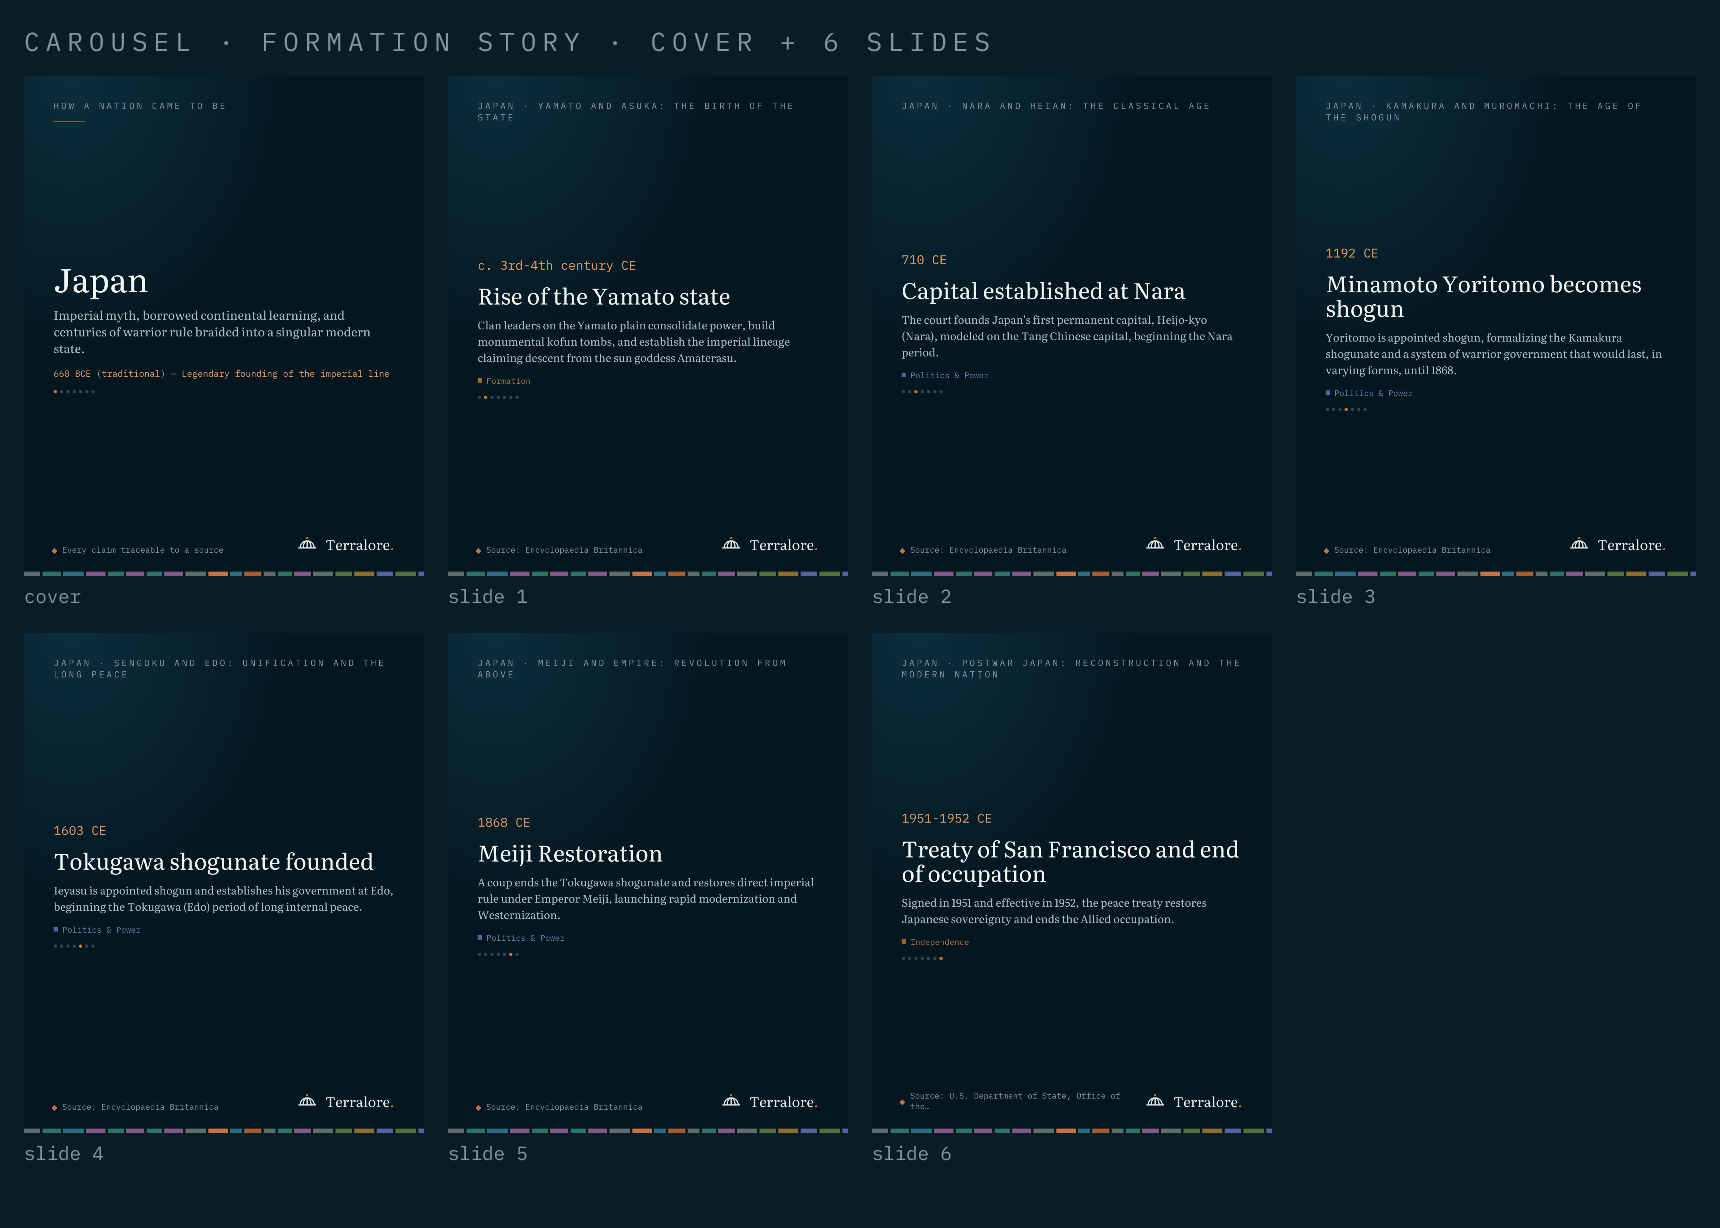
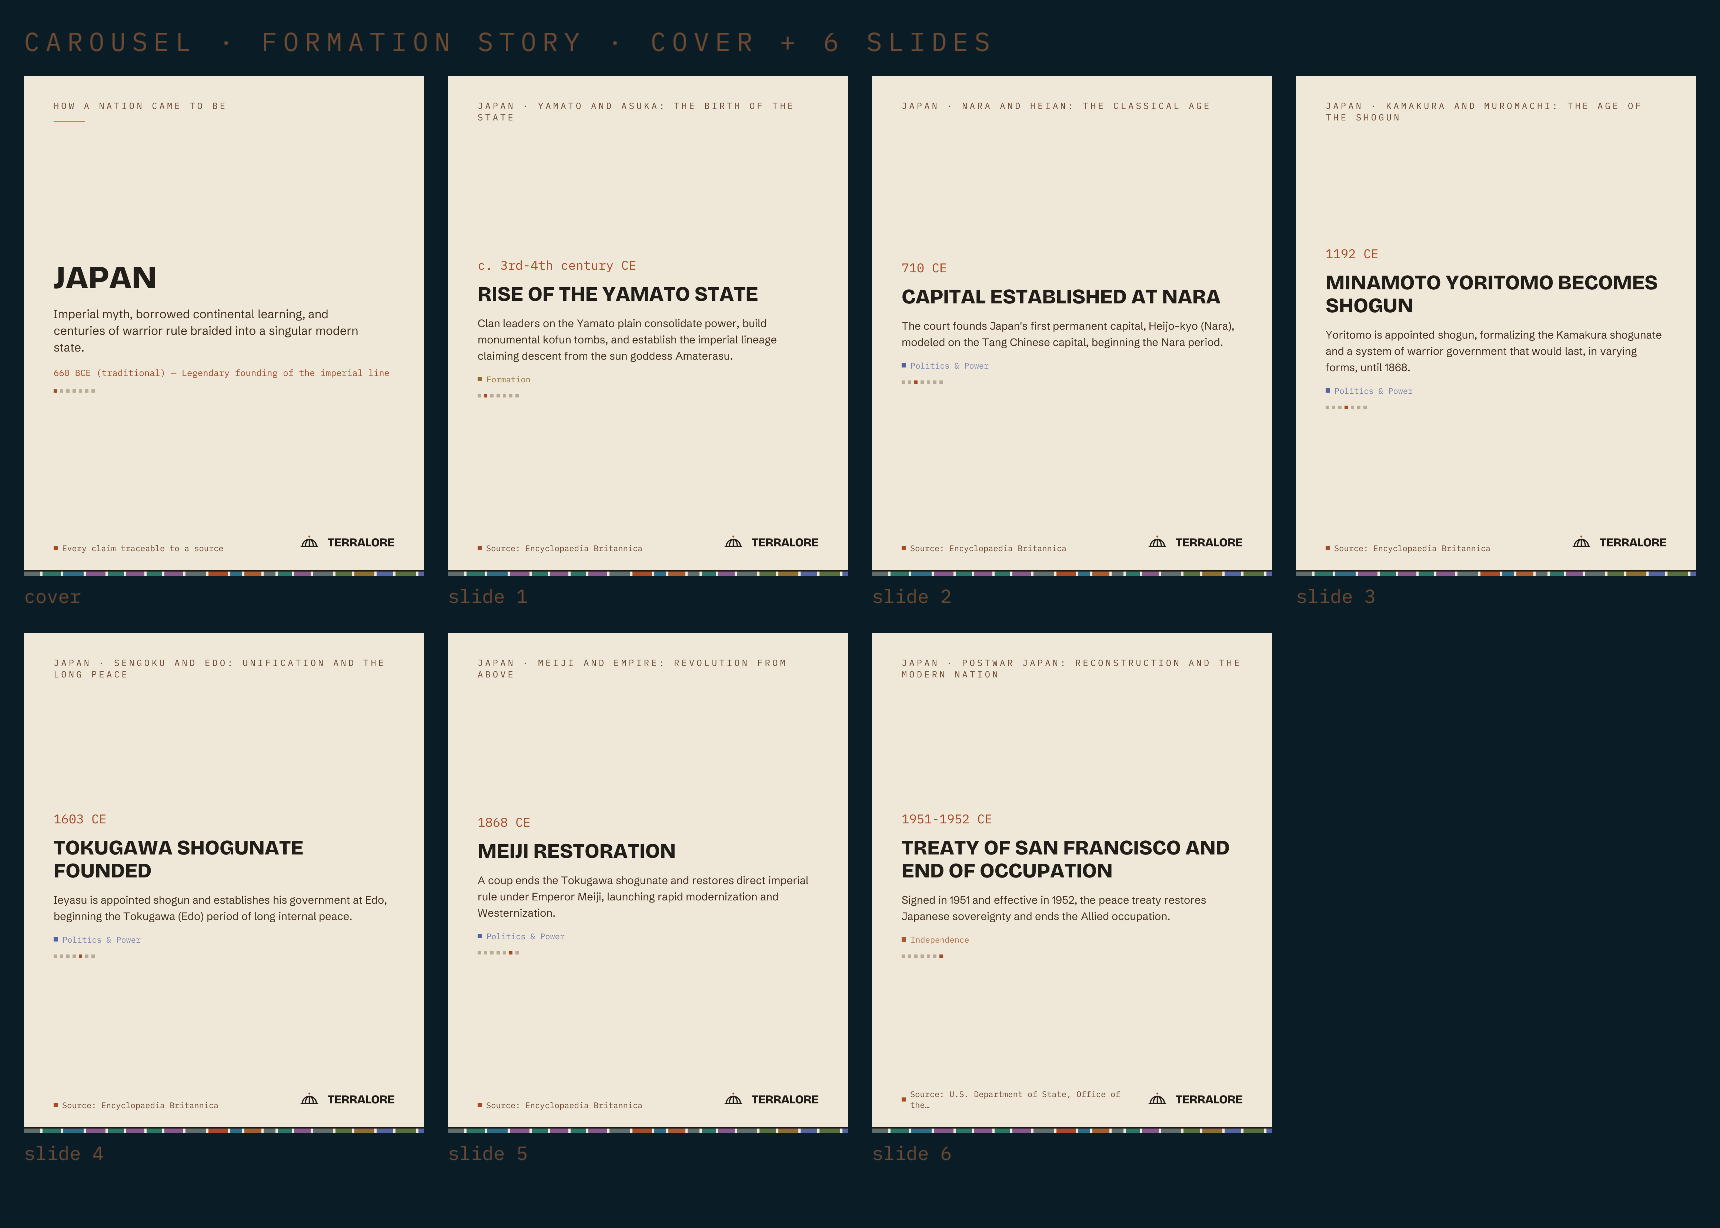
Strata: the brand outputs — OG cards + the social grammar, total re-render
The card world turns over: bone ground (solid — the radial deep is
retired), basalt stamps in Bricolage 800, Schibsted as the default body
face with Geist as the local glyph backstop, Plex Mono as the
instrument voice, the ZENITH mark basalt-with-oxide-dot, the TERRALORE
stamp replacing the serif wordmark, a 4px basalt rule over the strata
baseline. The palette keys keep their historical names so all five OG
routes and the social card twins read the new values without churn.

Nothing has ever been published to social, so this is a clean total
re-skin: contact sheets regenerated, and the range proof re-run — two
renders of the same days from the same ledger state are byte-identical
across all 30 files (sha256), with the proof ledger restored uncommitted
per the house rule.

diff --git a/lib/og.tsx b/lib/og.tsx
@@ -1,20 +1,20 @@
 // ── The social-card grammar — one composition for every OG surface ──────────
-// v2 of the card template, in the ZENITH identity (DESIGN.md, "The brand
-// mark"). Every card shares four fixed elements:
+// v3 of the card template, in the STRATA identity (DESIGN.md v2). Every card
+// shares four fixed elements:
 //
-//   · the ground — the deep, lit from the upper left
+//   · the ground — bone, the one page ground, solid
 //   · a data-first middle: eyebrow, title, support line (the caller's content)
-//   · the signature corner — the ZENITH mark + "Terralore." lockup, lower right
-//   · the strata baseline — the brand pattern as a full-bleed bottom strip,
-//     seeded by the page it decorates, so every card's strip is its own and
-//     every rebuild reproduces it exactly
+//   · the signature corner — the ZENITH mark (basalt, oxide dot) + the
+//     TERRALORE stamp, lower right
+//   · the 4px basalt rule + the strata baseline — the brand pattern as a
+//     full-bleed bottom strip, seeded by the page it decorates, so every
+//     card's strip is its own and every rebuild reproduces it exactly
 //
-// Constraints inherited from the routes this replaces: satori renders these,
-// so no CSS custom properties, no remote font, no remote image — everything
-// here is layout, literal colour, and inline SVG. The wordmark renders in
-// real Literata via a committed 4 KB glyph subset (assets/fonts/, exactly
-// the "Terralore." glyphs, instanced at the header's wght 420) read from
-// disk — zero fetch on the card path stays true.
+// Constraints: satori renders these, so no CSS custom properties, no remote
+// font, no remote image — layout, literal colour, and inline SVG only. The
+// faces are the committed subsets in assets/fonts/ (built by
+// scripts/build-strata-fonts.mjs) read from disk — zero fetch on the card
+// path stays true.
 //
 // The routes stay SSG (`generateStaticParams` on the parameterised ones), so
 // every card regenerates at `next build` by construction.
@@ -27,28 +27,28 @@ import { strataSequence } from "@/components/brand/strata";
 
 export const OG_SIZE = { width: 1200, height: 630 };
 
-// The wordmark's face. Generated once with subset-font (harfbuzz) from the
-// Literata variable TTF — glyphs "Terralore." only, instanced at wght 420 /
-// opsz 36 — and committed, so the build never fetches it. Regeneration is
-// documented in docs/brand-codification.md.
+// The three faces, from the committed strata subsets. Ordering is
+// load-bearing twice over:
 //
-// Geist must ride along, and FIRST. `ImageResponse` treats a `fonts` option
-// as a REPLACEMENT for its built-in default (`options.fonts || defaultFonts`
-// in @vercel/og), and satori resolves un-familied text against the whole
-// list in insertion order, then fetches missing glyphs from Google Fonts.
-// Proven offline: passing the 8-glyph subset alone sent every other
-// character on the card to fonts.googleapis.com — the exact build-time
-// network dependence these routes ban. With Geist first, body text keeps the
-// default face from the local file next itself ships, the wordmark alone
-// matches "Literata", every glyph resolves locally, zero fetches (verified
-// with fetch stubbed to throw). If a next upgrade moves the Geist file, the
-// build fails loudly here — never silently reach for the network instead.
+//   · `ImageResponse` treats a `fonts` option as a REPLACEMENT for its
+//     built-in default, and satori resolves un-familied text against the
+//     whole list in insertion order, then fetches missing glyphs from Google
+//     Fonts. Schibsted (broad Latin) rides FIRST so it is the default body
+//     face; Geist rides second as the glyph backstop from the local file
+//     next itself ships — every glyph resolves locally, zero fetches. If a
+//     next upgrade moves the Geist file, the build fails loudly here —
+//     never silently reach for the network instead.
+//   · Bricolage answers only to fontFamily "Bricolage" (the stamp voice),
+//     Plex Mono to "mono" (the instrument voice).
 //
-// Declared weight is 400 (satori's Weight union has no 420); the subset file
-// is already instanced at wght 420, so the declaration only routes matching.
 // Cached per worker: satori wants ArrayBuffers, and every card in a build
 // shares the one read.
-type OgFont = { name: string; data: ArrayBuffer; weight: 400; style: "normal" };
+type OgFont = {
+  name: string;
+  data: ArrayBuffer;
+  weight: 400 | 700 | 800;
+  style: "normal";
+};
 let fontsPromise: Promise<OgFont[]> | null = null;
 
 const toArrayBuffer = (buf: Buffer): ArrayBuffer =>
@@ -57,26 +57,42 @@ const toArrayBuffer = (buf: Buffer): ArrayBuffer =>
 /** ImageResponse `fonts` for every OG card — pass to the options argument. */
 export function ogFonts() {
   fontsPromise ??= Promise.all([
+    readFile(join(process.cwd(), "assets/fonts/schibsted-social-400.ttf")),
     readFile(join(process.cwd(), "node_modules/next/dist/compiled/@vercel/og/Geist-Regular.ttf")),
-    readFile(join(process.cwd(), "assets/fonts/literata-wordmark-subset.ttf")),
-  ]).then(([geist, literata]) => [
-    { name: "geist", data: toArrayBuffer(geist), weight: 400 as const, style: "normal" as const },
+    readFile(join(process.cwd(), "assets/fonts/schibsted-social-700.ttf")),
+    readFile(join(process.cwd(), "assets/fonts/bricolage-social-800.ttf")),
+    readFile(join(process.cwd(), "assets/fonts/plexmono-social-400.ttf")),
+  ]).then(([schibsted, geist, schibsted700, bricolage, mono]) => [
     {
-      name: "Literata",
-      data: toArrayBuffer(literata),
+      name: "Schibsted",
+      data: toArrayBuffer(schibsted),
       weight: 400 as const,
       style: "normal" as const,
     },
+    { name: "geist", data: toArrayBuffer(geist), weight: 400 as const, style: "normal" as const },
+    {
+      name: "Schibsted",
+      data: toArrayBuffer(schibsted700),
+      weight: 700 as const,
+      style: "normal" as const,
+    },
+    {
+      name: "Bricolage",
+      data: toArrayBuffer(bricolage),
+      weight: 800 as const,
+      style: "normal" as const,
+    },
+    { name: "mono", data: toArrayBuffer(mono), weight: 400 as const, style: "normal" as const },
   ]);
   return fontsPromise;
 }
 
-// The Stratum palette as literals, shared by every card — the definition
+// The Strata palette as literals, shared by every card — the definition
 // lives in components/brand/palette.ts (JSX-free) so the social pipeline's
 // node renderer reads the same values this shell does.
 export const OG = CARD;
 
-/** The ZENITH mark, drawn inline for satori — full cut, chalk, copper dot. */
+/** The ZENITH mark, drawn inline for satori — full cut, basalt, oxide dot. */
 export function ZenithMark({ size = 46 }: { size?: number }) {
   return (
     <svg width={size} height={size} viewBox="0 0 96 96">
@@ -91,7 +107,7 @@ export function ZenithMark({ size = 46 }: { size?: number }) {
   );
 }
 
-/** The signature — mark + "Terralore." with the copper stop. Lower-right corner. */
+/** The signature — mark + the TERRALORE stamp. Lower-right corner. */
 export function Signature() {
   return (
     <div style={{ display: "flex", alignItems: "center", gap: 16 }}>
@@ -99,12 +115,14 @@ export function Signature() {
       <div
         style={{
           display: "flex",
-          fontFamily: "Literata",
-          fontSize: 30,
+          fontFamily: "Bricolage",
+          fontWeight: 800,
+          fontSize: 26,
+          letterSpacing: -0.5,
           color: OG.chalk,
         }}
       >
-        Terralore<span style={{ color: OG.copper }}>.</span>
+        TERRALORE
       </div>
     </div>
   );
@@ -178,6 +196,7 @@ export function OgShell({
           <Signature />
         </div>
       </div>
+      <div style={{ display: "flex", width: "100%", height: 4, background: "#221e19" }} />
       <Baseline seed={seed} />
     </div>
   );
@@ -191,8 +210,9 @@ export function Eyebrow({ children }: { children: React.ReactNode }) {
         display: "flex",
         alignItems: "center",
         gap: 14,
-        fontSize: 19,
-        letterSpacing: 6,
+        fontFamily: "mono",
+        fontSize: 18,
+        letterSpacing: 4,
         textTransform: "uppercase",
         color: OG.chalk3,
       }}
@@ -205,8 +225,19 @@ export function Eyebrow({ children }: { children: React.ReactNode }) {
 /** The provenance line every card carries beside its stat. */
 export function SourcedLine({ children = "Every claim traceable to a source" }: { children?: string }) {
   return (
-    <div style={{ display: "flex", alignItems: "center", gap: 12, fontSize: 19, color: OG.chalk3 }}>
-      <div style={{ width: 11, height: 11, background: OG.copper, transform: "rotate(45deg)" }} />
+    <div
+      style={{
+        display: "flex",
+        alignItems: "center",
+        gap: 12,
+        fontFamily: "mono",
+        fontSize: 17,
+        letterSpacing: 1,
+        textTransform: "uppercase",
+        color: OG.chalk3,
+      }}
+    >
+      <div style={{ width: 11, height: 11, background: OG.copper }} />
       <span>{children}</span>
     </div>
   );

diff --git a/components/brand/palette.ts b/components/brand/palette.ts
@@ -5,19 +5,21 @@
  * pipeline's node renderer (which imports it through the ts-alias loader
  * and therefore needs this file JSX-free).
  *
- * TRANSITIONAL: these are still the retired STRATUM values, deliberately
- * decoupled from the recolored BRAND literals so the committed OG/social
- * output stays byte-stable until the Phase-4 re-skin replaces this palette
- * wholesale with the Strata pigments.
+ * Strata (P3): cards stand on bone like every other surface. The KEY NAMES
+ * are historical (they date from the STRATUM deep-ground cards) and are kept
+ * so every card route reads the new world without churn — the mapping is:
+ * chalkHi/chalk → basalt ink · chalk2 → deep umber (body) · chalk3 → umber
+ * (labels) · copper* → oxide (the accent) · verdigris → oxide (stat
+ * figures) · verdigrisMid → clay · ground → bone, solid.
  */
 export const CARD = {
-  copper: "#c87244",
-  copperBright: "#e39a67",
-  verdigris: "#7cc4b3",
-  verdigrisMid: "#57a695",
-  chalkHi: "#f2f6f4",
-  chalk: "#e6ecea",
-  chalk2: "#afbfc1",
-  chalk3: "#8497a0",
-  ground: "radial-gradient(120% 120% at 12% 0%, #0c2e3d 0%, #04161f 48%, #04161f 100%)",
+  copper: "#a64b26",
+  copperBright: "#a64b26",
+  verdigris: "#a64b26",
+  verdigrisMid: "#c88a5c",
+  chalkHi: "#221e19",
+  chalk: "#221e19",
+  chalk2: "#42301f",
+  chalk3: "#6e4a32",
+  ground: "#efe7d8",
 } as const;

diff --git a/app/country/[code]/opengraph-image.tsx b/app/country/[code]/opengraph-image.tsx
@@ -90,6 +90,9 @@ export default async function CountryOgImage({
                 lineHeight: 1.0,
                 letterSpacing: -2,
                 color: OG.chalkHi,
+                fontFamily: "Bricolage",
+                fontWeight: 800,
+                textTransform: "uppercase" as const,
                 maxWidth: 1000,
               }}
             >
@@ -114,7 +117,8 @@ export default async function CountryOgImage({
           <div style={{ display: "flex", flexDirection: "column", gap: 16 }}>
             {stat ? (
               <div style={{ display: "flex", alignItems: "baseline", gap: 14 }}>
-                <div style={{ fontSize: 46, color: OG.verdigris, letterSpacing: -1 }}>
+                <div style={{ fontSize: 46, color: OG.verdigris,
+                fontFamily: "mono", letterSpacing: -1 }}>
                   {stat.value}
                 </div>
                 <div style={{ fontSize: 22, color: OG.chalk3 }}>{stat.label}</div>

diff --git a/app/opengraph-image.tsx b/app/opengraph-image.tsx
@@ -32,6 +32,9 @@ export default async function OpengraphImage() {
                 lineHeight: 1.04,
                 letterSpacing: -1.5,
                 color: OG.chalkHi,
+                fontFamily: "Bricolage",
+                fontWeight: 800,
+                textTransform: "uppercase" as const,
                 maxWidth: 940,
               }}
             >
@@ -53,7 +56,8 @@ export default async function OpengraphImage() {
         stat={
           <div style={{ display: "flex", flexDirection: "column", gap: 16 }}>
             <div style={{ display: "flex", alignItems: "baseline", gap: 14 }}>
-              <div style={{ fontSize: 44, color: OG.verdigris, letterSpacing: -1 }}>
+              <div style={{ fontSize: 44, color: OG.verdigris,
+                fontFamily: "mono", letterSpacing: -1 }}>
                 {stats.events.toLocaleString("en")}
               </div>
               <div style={{ fontSize: 22, color: OG.chalk3 }}>
